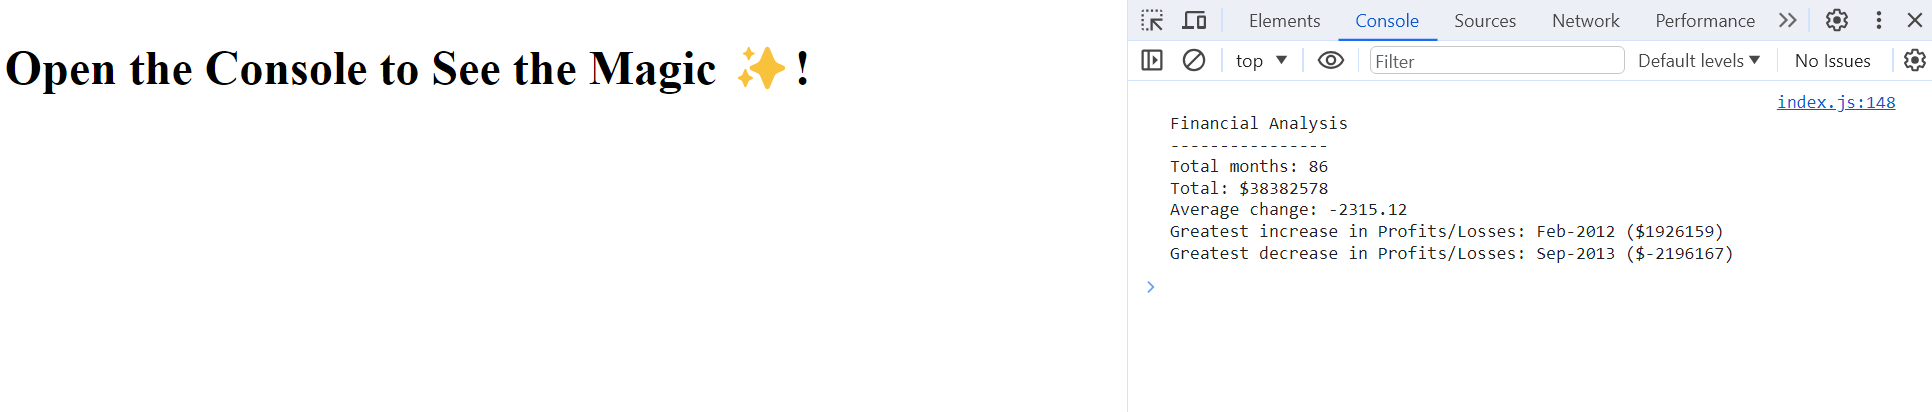
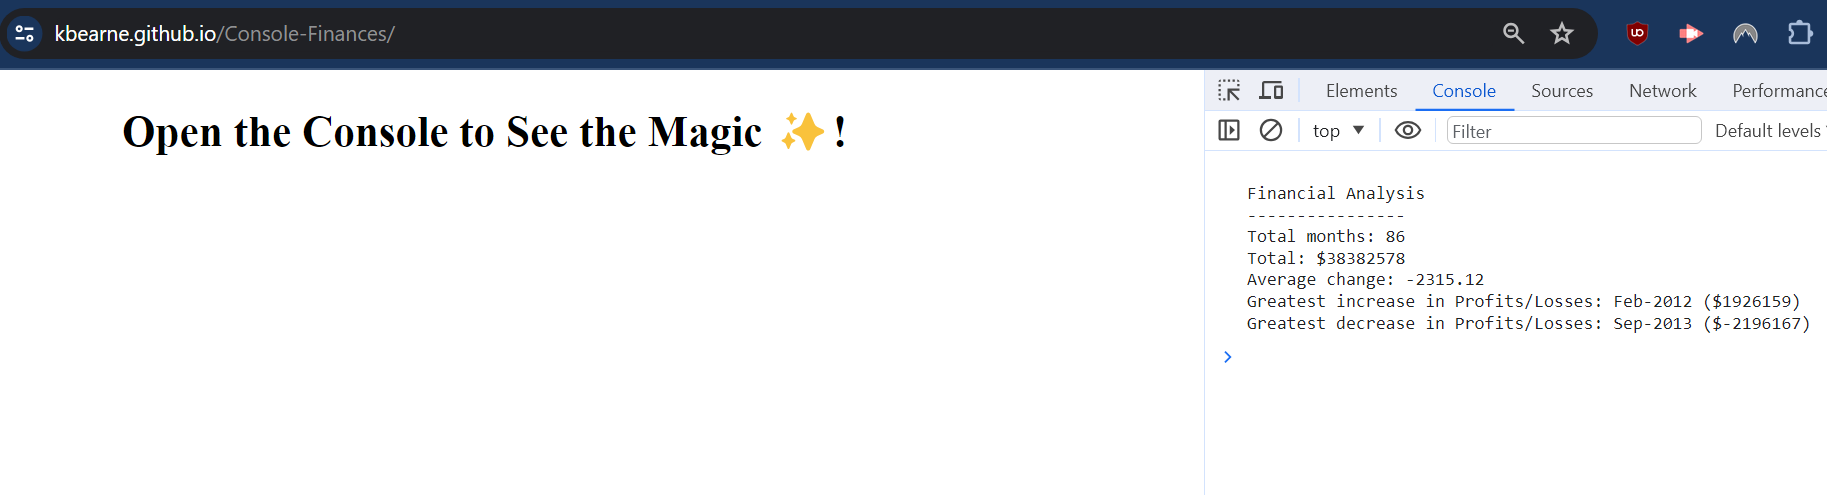
completed README

Changed region(s): [[0.0, 0.0, 1.0, 0.3204], [0.5928, 0.3786, 0.9984, 0.6699], [0.9048, 0.233, 0.9984, 0.2913]]

diff --git a/README.md b/README.md
@@ -10,7 +10,7 @@ This project fullfils the criteria of building an app (in JavaScript) which anal
 - The greatest increase in profits (date and difference in the amounts) over the entire period.
 - The greatest decrease in losses (date and difference in the amounts) over the entire period.
 
-![Screenshot of the website](./assets/images/websiteScreenshot.png)
+![Screenshot of the website](websiteScreenshot.png)
 
 ## Installation
 
@@ -18,7 +18,7 @@ N/A
 
 ## Usage
 
-Access the deployed application at the following URL: ....
+Access the deployed application at the following URL: https://kbearne.github.io/Console-Finances/
 
 Results of the script can be viewed in the console.
 
